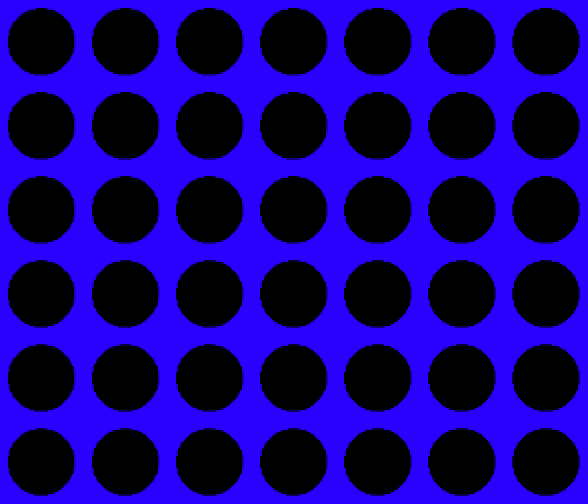
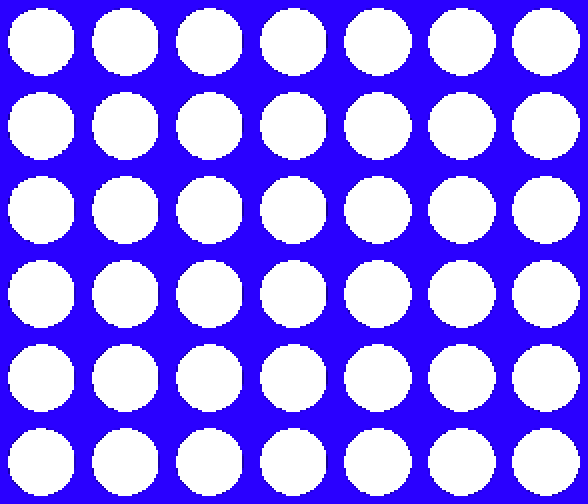
changed background color

diff --git a/game.js b/game.js
@@ -21,6 +21,7 @@ var timeout = 0;
 var game = new Phaser.Game(config);
 
 function preload() {
+    this.load.image('bg-color', 'assets/bg_color.png');
     this.load.image('background', 'assets/background.png');
     this.load.image('red', 'assets/red2.png');
     this.load.image('yellow', 'assets/yellow2.png');
@@ -78,7 +79,8 @@ function isWinner(board, player) {
 
 function create() {
     initBoard();
-    bg = this.add.sprite(325, 275, 'background');
+    bg_color = this.add.sprite(0, 0, 'bg-color').setOrigin(0,0); 
+    bg = this.add.sprite(325, 275, 'background'); 
 }
 
 function update() {
